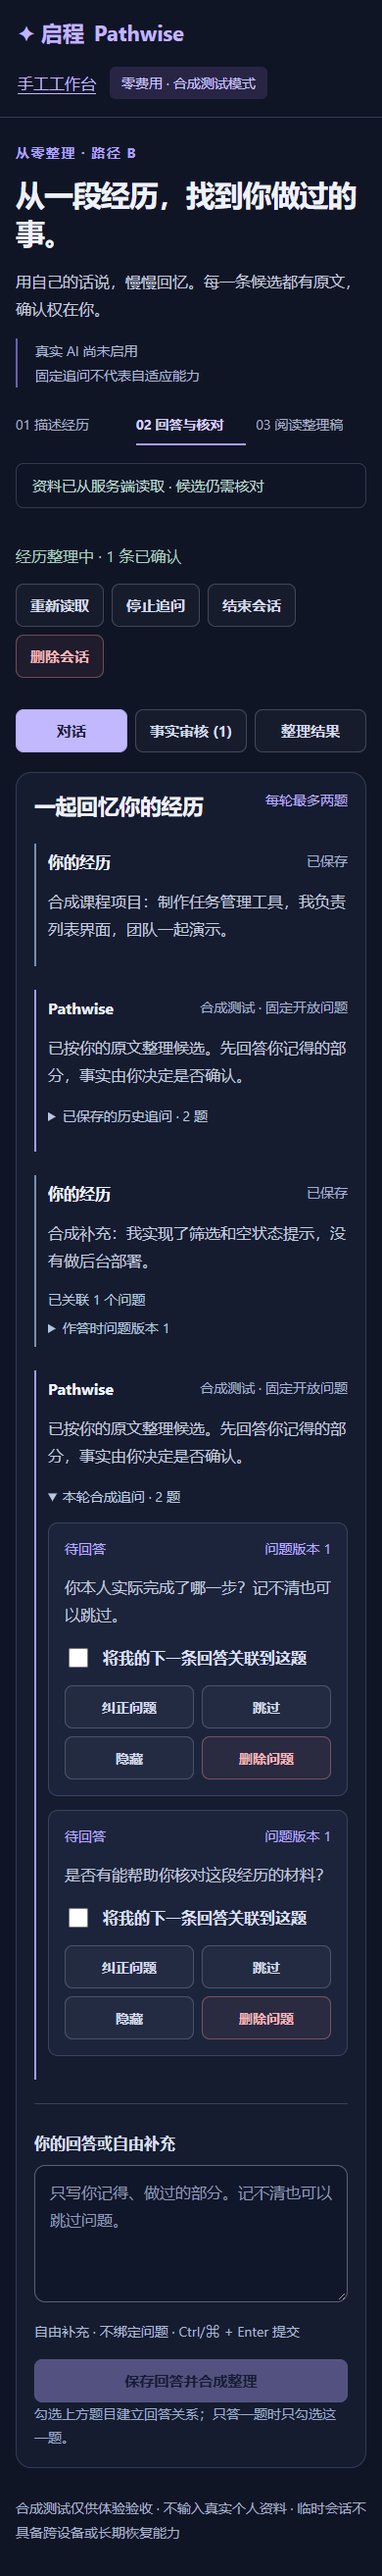
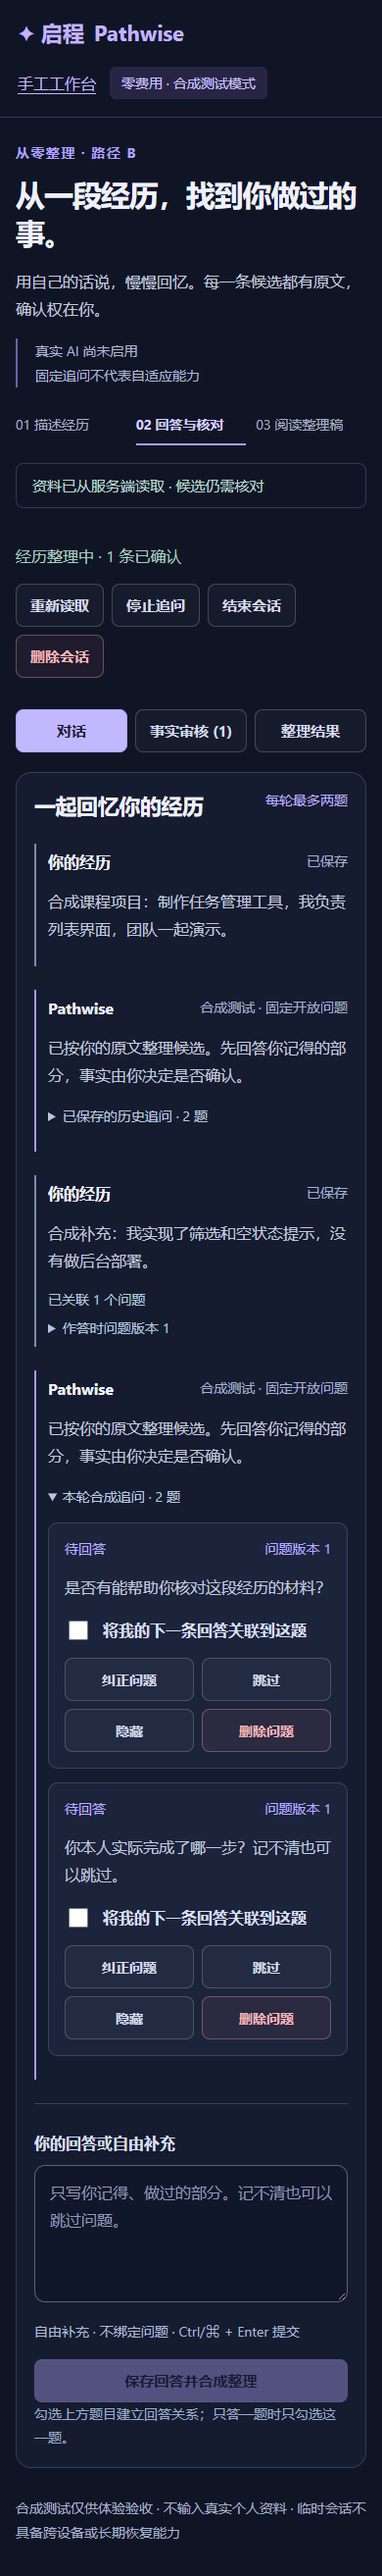
fix(web): recover absent creations and separate landing page

Changed region(s): [[0.1538, 0.5933, 0.8615, 0.7494], [0.5846, 0.687, 0.6154, 0.7494]]

diff --git a/apps/web/e2e/discovery.spec.ts b/apps/web/e2e/discovery.spec.ts
@@ -26,6 +26,9 @@ test('discovery full real UI / HTTP / PostgreSQL flow and desktop evidence', asy
   await page.setViewportSize({ width: 1440, height: 1000 })
   await page.goto('/')
   await expect(page.getByRole('region', { name: '三个首页入口' })).toBeVisible()
+  await expect(page.getByLabel('原始经历', { exact: true })).toHaveCount(0)
+  await expect(page.getByLabel('描述一段经历')).toHaveCount(0)
+  await page.screenshot({ path: info.outputPath('home.png'), fullPage: true })
   await page.getByRole('link', { name: /我还没有一份像样的简历/ }).click()
   await page.getByLabel('描述一段经历').fill('合成课程项目：任务列表，我负责页面交互，团队负责整体演示。')
   await page.getByRole('button', { name: '开始合成整理', exact: true }).click()
@@ -197,4 +200,84 @@ test('discovery lost creation and recovery response refresh never auto-creates o
   await page.getByRole('button', { name: '根据已保存经历开始合成整理' }).click()
   await expect(page.getByRole('article', { name: '合成追问' })).toHaveCount(2)
   expect(mines).toBe(1)
+})
+
+
+test('creation never received: refresh reads real 404, identical same-key retry creates once', async ({ page }) => {
+  await page.goto('/discovery')
+  const original = '合成：从未发送到服务端的课程经历。', keys: string[] = []
+  page.on('request', request => { if (request.method() === 'POST' && request.url().endsWith('/sessions')) keys.push(request.headers()['idempotency-key']) })
+  await page.route('**/api/v1/experience/sessions', route => route.abort('internetdisconnected'), { times: 1 })
+  await page.getByLabel('描述一段经历').fill(original)
+  await page.getByRole('button', { name: '开始合成整理', exact: true }).click()
+  await expect(page.getByText(/明确未找到创建结果/)).toBeVisible()
+  expect(probe().sessions).toHaveLength(0)
+  const recovery = page.waitForResponse(r => r.url().endsWith('/session-creations/recovery'))
+  await page.reload()
+  expect((await recovery).status()).toBe(404)
+  await expect(page.getByText(/明确未找到创建结果/)).toBeVisible()
+  expect(keys).toHaveLength(1);expect(probe().sessions).toHaveLength(0)
+  await page.getByLabel('描述一段经历').fill('合成：与原文不同。')
+  await page.getByRole('button', { name: '用原描述同键重试' }).click()
+  await expect(page.getByText(/这次输入与先前提交不同/)).toBeVisible()
+  expect(keys).toHaveLength(1);expect(probe().sessions).toHaveLength(0)
+  await page.getByLabel('描述一段经历').fill(original)
+  await page.getByRole('button', { name: '用原描述同键重试' }).click()
+  await expect(page.getByRole('article', { name: '合成追问' })).toHaveCount(2)
+  expect(keys).toHaveLength(2);expect(keys[0] === keys[1]).toBe(true)
+  expect(probe().sessions).toHaveLength(1);expect(audit().user_turns).toBe(1);expect(audit().runs).toHaveLength(1)
+  expect((await apiRead(page)).turns.find((t: { role: string }) => t.role === 'user').content).toBe(original)
+  await page.reload()
+  await expect(page.getByRole('article', { name: '合成追问' })).toHaveCount(2)
+  expect(keys).toHaveLength(2)
+})
+
+for (const boundary of ['expired', 'damaged'] as const) {
+  test(`creation ${boundary} storage blocks writes after refresh`, async ({ page }) => {
+    await page.goto('/discovery')
+    let creates = 0
+    page.on('request', request => { if (request.method() === 'POST' && request.url().endsWith('/sessions')) creates++ })
+    await page.route('**/api/v1/experience/sessions', route => route.abort('internetdisconnected'), { times: 1 })
+    await page.getByLabel('描述一段经历').fill('合成：恢复窗口边界。')
+    await page.getByRole('button', { name: '开始合成整理', exact: true }).click()
+    await expect(page.getByText(/明确未找到创建结果/)).toBeVisible()
+    await page.evaluate(async kind => {
+      const name = 'pathwise.development.pendingCreate'
+      const p = JSON.parse(sessionStorage.getItem(name)!)
+      if (kind === 'damaged') p.bodyTag = 'damaged'
+      else {
+        // Generate an actually valid expired proof, never expose secrets in output.
+        const issued = Math.floor(Date.now() / 1000) - 86401, nonce = p.key.split('.')[2]
+        const key = await crypto.subtle.importKey('raw', new TextEncoder().encode(p.token), { name: 'HMAC', hash: 'SHA-256' }, false, ['sign'])
+        const proof = new Uint8Array(await crypto.subtle.sign('HMAC', key, new TextEncoder().encode(`pathwise-idempotency-v1\ncreate_session\nglobal\n${issued}\n${nonce}`)))
+        const encoded = btoa(String.fromCharCode(...proof)).replaceAll('+', '-').replaceAll('/', '_').replaceAll('=', '')
+        p.key = `v1.${issued}.${nonce}.${encoded}`;p.expiresAt = (issued + 86400) * 1000
+      }
+      sessionStorage.setItem(name, JSON.stringify(p))
+    }, boundary)
+    await page.reload()
+    await expect(page.getByRole('alert')).toContainText(boundary === 'expired' ? '24 小时临时恢复窗口已结束' : '临时恢复记录异常')
+    await page.getByLabel('描述一段经历').fill('合成：恢复窗口边界。')
+    await expect(page.getByRole('button', { name: '开始合成整理', exact: true })).toBeDisabled()
+    expect(creates).toBe(1);expect(probe().sessions).toHaveLength(0);expect(audit().runs).toHaveLength(0)
+  })
+}
+
+test('uncertain creation recovery never authorizes retry, even after a previous definite 404', async ({ page }) => {
+  await page.goto('/discovery')
+  let creates = 0
+  page.on('request', request => { if (request.method() === 'POST' && request.url().endsWith('/sessions')) creates++ })
+  await page.route('**/api/v1/experience/sessions', route => route.abort('internetdisconnected'), { times: 1 })
+  await page.getByLabel('描述一段经历').fill('合成：结果不确定边界。')
+  await page.getByRole('button', { name: '开始合成整理', exact: true }).click()
+  await expect(page.getByText(/明确未找到创建结果/)).toBeVisible()
+  await page.route('**/session-creations/recovery', route => route.abort('connectionreset'))
+  await page.reload()
+  await expect(page.getByText(/创建结果仍不确定/)).toBeVisible()
+  await page.getByLabel('描述一段经历').fill('合成：结果不确定边界。')
+  await expect(page.getByRole('button', { name: '用原描述同键重试' })).toBeDisabled()
+  await page.unroute('**/session-creations/recovery')
+  await page.getByRole('button', { name: '只读恢复创建结果' }).click()
+  await expect(page.getByRole('button', { name: '用原描述同键重试' })).toBeEnabled()
+  expect(creates).toBe(1);expect(probe().sessions).toHaveLength(0)
 })

diff --git a/apps/web/src/features/discovery/Discovery.test.tsx b/apps/web/src/features/discovery/Discovery.test.tsx
@@ -3,12 +3,13 @@ import userEvent from '@testing-library/user-event'
 import { describe, expect, it, vi } from 'vitest'
 import fixtures from '../../test/mining-fixtures.json'
 import { createExperienceApi, SESSION_KEY } from '../../lib/experience'
+import { newPending, PENDING_KEY, storePending } from '../../lib/idempotency'
 import { MINING_KEY } from '../../lib/pending-mining'
 import DiscoveryWorkbench from './DiscoveryWorkbench'
 
 type Stage = 'empty' | 'initial' | 'answered' | 'confirmed'
 function setup(initial: Stage | null = 'initial') {
-  let stage: Stage = initial ?? 'empty', failReads = false, disabled = false, lost = false, missing = false, conflict = false
+  let stage: Stage = initial ?? 'empty', failReads = false, disabled = false, lost = false, missing = false, conflict = false, creationMissing = false, creationUnknown = false
   if (initial) sessionStorage.setItem(SESSION_KEY, JSON.stringify({ sessionId: fixtures.created.session_id, token: fixtures.created.access_token }))
   const fetcher = vi.fn(async (input: RequestInfo | URL, init?: RequestInit) => {
     const path = String(input), method = init?.method ?? 'GET'
@@ -16,7 +17,9 @@ function setup(initial: Stage | null = 'initial') {
     if (method === 'GET' && failReads) throw new Error('Synthetic offline')
     if (path.endsWith('/experience-summary')) return json(fixtures[`${stage}Summary`])
     if (path.endsWith('/mining-runs/recovery')) return missing ? json({ error: { code: 'mining_operation_not_found' } }, 404) : json(stage === 'initial' ? fixtures.initialRun : fixtures.answerRun)
+    if (path.endsWith('/session-creations/recovery')) return json({ error: { code: creationUnknown ? 'resource_unavailable' : 'idempotency_creation_not_found' } }, 404)
     if (method === 'GET') return json(fixtures[stage])
+    if (path.endsWith('/sessions') && creationMissing) throw new Error('Synthetic creation never received')
     if (path.endsWith('/sessions')) return json({ ...fixtures.created, access_token: (init?.headers as Record<string, string>).Authorization.slice(7) }, 201)
     if (path.endsWith('/mining-runs')) {
       if (disabled) return json({ error: { code: 'ai_disabled' } }, 503)
@@ -35,7 +38,7 @@ function setup(initial: Stage | null = 'initial') {
   })
   const api = createExperienceApi(fetcher as typeof fetch), copy = vi.fn(async () => {})
   const view = render(<DiscoveryWorkbench api={api} copy={copy} />)
-  return { fetcher, api, copy, view, loseResponse: () => { lost = true }, missing: () => { missing = true }, enable: () => { missing = false }, disable: () => { disabled = true }, offline: () => { failReads = true }, online: () => { failReads = false; conflict = false }, conflict: () => { conflict = true } }
+  return { fetcher, api, copy, view, creationMissing: () => { creationMissing = true }, creationUnknown: () => { creationUnknown = true }, creationOnline: () => { creationMissing = false; creationUnknown = false }, loseResponse: () => { lost = true }, missing: () => { missing = true }, enable: () => { missing = false }, disable: () => { disabled = true }, offline: () => { failReads = true }, online: () => { failReads = false; conflict = false }, conflict: () => { conflict = true } }
 }
 const posts = (fetcher: ReturnType<typeof setup>['fetcher']) => fetcher.mock.calls.filter(([, init]) => init?.method === 'POST')
 const waitReady = () => waitFor(() => expect(screen.getByRole('button', { name: '重新读取' })).not.toBeDisabled())
@@ -53,6 +56,44 @@ describe('scripted conversation with recorded FastAPI contracts', () => {
     expect(screen.getByText(/真实 AI 尚未启用/)).toBeInTheDocument()
     const stored = JSON.stringify(Object.keys(sessionStorage).map(key => sessionStorage.getItem(key)))
     expect(stored.includes('Synthetic project:')).toBe(false)
+  })
+  it('refresh creation 404 permits only explicit identical same-key retry', async () => {
+    const original = 'Synthetic unsubmitted creation.'
+    const x = setup(null);x.creationMissing()
+    fireEvent.change(screen.getByLabelText('描述一段经历'), { target: { value: original } })
+    await userEvent.click(screen.getByRole('button', { name: '开始合成整理' }))
+    await screen.findByText(/明确未找到创建结果/)
+    const key = JSON.parse(sessionStorage.getItem(PENDING_KEY)!).key
+    x.view.unmount();const restored = render(<DiscoveryWorkbench api={x.api} />)
+    await screen.findByText(/明确未找到创建结果/)
+    expect(posts(x.fetcher)).toHaveLength(1)
+    fireEvent.change(screen.getByLabelText('描述一段经历'), { target: { value: 'Different original' } })
+    await userEvent.click(screen.getByRole('button', { name: '用原描述同键重试' }))
+    await screen.findByText(/这次输入与先前提交不同/)
+    expect(posts(x.fetcher)).toHaveLength(1)
+    fireEvent.change(screen.getByLabelText('描述一段经历'), { target: { value: original } })
+    x.creationUnknown();await userEvent.click(screen.getByRole('button', { name: '只读恢复创建结果' }))
+    await waitFor(() => expect(screen.getByRole('button', { name: '用原描述同键重试' })).toBeDisabled())
+    expect(posts(x.fetcher)).toHaveLength(1)
+    x.creationOnline();await userEvent.click(screen.getByRole('button', { name: '只读恢复创建结果' }))
+    await waitFor(() => expect(screen.getByRole('button', { name: '用原描述同键重试' })).toBeEnabled())
+    await userEvent.click(screen.getByRole('button', { name: '用原描述同键重试' }))
+    await screen.findByRole('heading', { name: '一起回忆你的经历' })
+    expect(posts(x.fetcher)[1][1]?.headers).toMatchObject({ 'Idempotency-Key': key })
+    restored.unmount()
+  })
+  it.each(['expired', 'damaged'] as const)('blocks %s creation storage without any POST', async kind => {
+    const p = await newPending('Synthetic pending creation.')
+    if (kind === 'expired') {
+      const issued = Math.floor(Date.now() / 1000) - 86401
+      p.key = p.key.replace(p.key.split('.')[1], String(issued));p.expiresAt = (issued + 86400) * 1000
+      storePending(p)
+    } else sessionStorage.setItem(PENDING_KEY, JSON.stringify({ ...p, bodyTag: 'damaged' }))
+    const x = setup(null)
+    await screen.findByRole('alert')
+    fireEvent.change(screen.getByLabelText('描述一段经历'), { target: { value: 'Synthetic pending creation.' } })
+    expect(screen.getByRole('button', { name: '开始合成整理' })).toBeDisabled()
+    expect(posts(x.fetcher)).toHaveLength(0)
   })
   it('binds only the selected question, leaving unselected questions unbound', async () => {
     const { fetcher } = setup()

diff --git a/apps/web/src/features/discovery/useDiscovery.ts b/apps/web/src/features/discovery/useDiscovery.ts
@@ -1,6 +1,6 @@
 import { useEffect, useRef, useState } from 'react'
 import { ApiError, readCredentials, saveCredentials, SESSION_KEY, type Credentials, type ExperienceApi, type ExperienceSession, type Fact, type Mutation } from '../../lib/experience'
-import { checkBody, clearPending, newPending, readPending, storePending } from '../../lib/idempotency'
+import { checkBody, clearPending, newPending, readPending, storePending, type PendingCreate } from '../../lib/idempotency'
 import { createMiningApi, type Summary } from '../../lib/mining'
 import { clearMining, newMining, originalBody, readMining, storeMining, verifyMining, type PendingMining } from '../../lib/pending-mining'
 import type { MiningBody, MiningRun, Question, QuestionAction } from '../../lib/mining-contract'
@@ -37,6 +37,22 @@ export function useDiscovery(api: ExperienceApi) {
     saveCredentials(c); clearPending(); setCreation({ value: null, error: '' }); setCredentials(c); setRaw('')
     return c
   }
+  async function recoverCreation(p: PendingCreate, active = () => true) {
+    // Only the creation contract's explicit 404 establishes absence. A transport
+    // error, another 404, or an expired key must never authorize a write.
+    try {
+      const result = await apiRef.current.recover(p)
+      if (active()) setCreateNotFound(false)
+      return result
+    } catch (cause) {
+      if (active()) {
+        const absent = cause instanceof ApiError && cause.status === 404 && cause.code === 'idempotency_creation_not_found' && Date.now() < p.expiresAt
+        setCreateNotFound(absent); setNeedsReload(!absent)
+        setNotice(absent ? '明确未找到创建结果。请重新输入完全一致的原描述，再显式同键重试；不会自动新建。' : '创建结果仍不确定，写入已暂停。请先只读恢复，不会换键或自动重发。')
+      }
+      throw cause
+    }
+  }
   async function acceptRun(c: Credentials, p: PendingMining, result: MiningRun) {
     if (result.session_id !== c.sessionId || result.project_id !== p.project_id) throw new Error('恢复资料归属不一致。')
     await load(c)
@@ -61,7 +77,7 @@ export function useDiscovery(api: ExperienceApi) {
       let loaded = false
       try {
         let c = credentials
-        if (!c && creation.value && !creation.error) c = adopt(await apiRef.current.recover(creation.value), creation.value)
+        if (!c && creation.value && !creation.error) c = adopt(await recoverCreation(creation.value, () => active), creation.value)
         if (c) {
           await load(c, () => active)
           loaded = true
@@ -69,8 +85,9 @@ export function useDiscovery(api: ExperienceApi) {
         }
       } catch (cause) {
         if (!active) return
-        if (cause instanceof ApiError && cause.code === 'idempotency_creation_not_found') setCreateNotFound(true)
-        setNeedsReload(!(loaded && cause instanceof ApiError && cause.code === 'mining_operation_not_found')); setError(cause instanceof Error ? cause.message : '恢复失败，请只读查询。')
+        const absent = !credentials && creation.value && !creation.error && Date.now() < creation.value.expiresAt && cause instanceof ApiError && cause.status === 404 && cause.code === 'idempotency_creation_not_found'
+        setNeedsReload(!(absent || (loaded && cause instanceof ApiError && cause.code === 'mining_operation_not_found')))
+        setError(cause instanceof Error ? cause.message : '恢复失败，请只读查询。')
       } finally { if (active) { locked.current = false; setBusy(false) } }
     }
     void boot()
@@ -113,18 +130,16 @@ export function useDiscovery(api: ExperienceApi) {
     }
   }
   async function create() {
-    if (creation.error || mining.error) throw new Error('暂存异常，请先核对恢复记录。')
+    if (needsReload || creation.error || mining.error) throw new Error('暂存异常，请先核对恢复记录。')
     if (creation.value && !createNotFound) throw new Error('请先查询刚才的创建结果，不会新建第二份。')
     const p = creation.value ?? await newPending(raw)
     await checkBody(p, raw); storePending(p); setCreation({ value: p, error: '' })
+    setCreateNotFound(false)
     let c: Credentials
     try { c = adopt(await apiRef.current.create(raw, p), p) }
     catch (cause) {
-      try { c = adopt(await apiRef.current.recover(p), p) }
-      catch (recovery) {
-        if (recovery instanceof ApiError && recovery.code === 'idempotency_creation_not_found') setCreateNotFound(true)
-        throw cause
-      }
+      try { c = adopt(await recoverCreation(p), p) }
+      catch { throw cause }
     }
     const data = await load(c)
     if (data) await send(c, body(data, { input_turn_id: data.turns.find(t => t.role === 'user')!.id }))
@@ -149,7 +164,7 @@ export function useDiscovery(api: ExperienceApi) {
   }
   async function refresh() {
     if (!credentials) {
-      if (creation.value) { const c = adopt(await apiRef.current.recover(creation.value), creation.value); await load(c) }
+      if (creation.value) { const c = adopt(await recoverCreation(creation.value), creation.value); await load(c) }
     } else { await load(); if (mining.value) await recoverMine() }
   }
   async function mutate(fact: Fact, mutation: Mutation) {

diff --git a/apps/web/src/App.tsx b/apps/web/src/App.tsx
@@ -4,9 +4,8 @@ import type { CreatedSession, Credentials, ExperienceApi, ExperienceSession, Fac
 import { checkBody, clearPending, newPending, operation, readPending, storePending } from './lib/idempotency'
 import type { PendingCreate } from './lib/idempotency'
 import { FactCard } from './features/FactCard'
-import type { ReactNode } from 'react'
 
-export default function App({ api = createExperienceApi(), download = downloadJson, intro }: { api?: ExperienceApi; download?: typeof downloadJson; intro?: ReactNode }) {
+export default function App({ api = createExperienceApi(), download = downloadJson }: { api?: ExperienceApi; download?: typeof downloadJson }) {
   const apiRef = useRef(api)
   const [credentials, setCredentials] = useState<Credentials | null>(readCredentials)
   const [initialPending] = useState(readPending)
@@ -171,7 +170,6 @@ export default function App({ api = createExperienceApi(), download = downloadJs
   const unusedTurns = session?.turns.filter((turn, i) => i > 0 && turn.role === 'user' && !session.facts.some(f => f.original_source_turn_ids.includes(turn.id))) ?? []
   return <div className="page">
     <header className="header"><a className="brand" href="#"><span className="brand-symbol">✦</span>启程 <span className="brand-en">Pathwise</span></a><span className="stage">真实经历库 · 开发版</span></header>
-    {intro}
     <main className="workspace"><div className="page-heading"><p className="eyebrow">YOUR EXPERIENCE, YOUR WORDS</p><h1>让真实经历，成为你的底气。</h1><p className="intro">从一句自述开始，逐条整理、核对与确认。每一条事实，都能回到它的来源。</p></div>
       <div className="principles"><span>01 记录经历</span><span>02 核对事实</span><span>03 保存与复用</span></div>
       {error && <div className="alert" role="alert">{error}</div>}{notice && <p className="notice" role="status">{notice}</p>}{busy && <p role="status" className="loading">正在与经历库同步…</p>}

diff --git a/apps/web/src/features/Home.css b/apps/web/src/features/Home.css
@@ -1,0 +1,22 @@
+.home { min-height:100vh; color:#edf0fc; background:#101526; font-size:16px; }
+.home-header { max-width:1320px; margin:auto; padding:26px 36px; display:flex; align-items:center; justify-content:space-between; gap:24px; border-bottom:1px solid #323a55; }
+.home-header a { color:#bfb4ed; text-underline-offset:4px; }
+.home-header .brand { font-size:22px; }
+.home-main { max-width:1320px; margin:auto; padding:70px 36px 48px; }
+.home-kicker { color:#b4a5f6; font-size:15px; letter-spacing:.12em; }
+.home h1 { font-size:clamp(36px,5vw,64px); font-weight:750; line-height:1.25; letter-spacing:-.03em; margin:20px 0; }
+.home-lead { color:#c1cae1; font-size:18px; line-height:1.8; max-width:650px; }
+.home-entries { margin-top:48px; }
+.home h2 { font-size:22px; margin-bottom:24px; }
+.home-grid { display:grid; grid-template-columns:repeat(3,minmax(0,1fr)); gap:22px; }
+.home-entry { display:flex; flex-direction:column; align-items:flex-start; min-width:0; padding:28px; border:1px solid #3e465f; background:#192035; border-radius:16px; text-decoration:none; color:inherit; }
+.home-step { color:#b4b8d5; font-size:14px; }
+.home h3 { font-size:23px; line-height:1.5; margin:22px 0 12px; }
+.home-entry p { color:#c0c8dd; font-size:16px; line-height:1.8; margin:0 0 30px; }
+.home-primary { background:#272441; border-color:#a99be8; }
+.home-primary:hover { background:#302b50; }
+.home-action,.home-unavailable { margin-top:auto; font-size:16px; line-height:1.6; }
+.home-action { color:#ddd3ff; font-weight:650; }
+.home-unavailable { color:#a9b2cb; }
+.home-mode { color:#aebbd3; font-size:14px; line-height:1.9; margin-top:28px; max-width:880px; }
+@media(max-width:800px) { .home-grid { grid-template-columns:1fr; } .home-main { padding:36px 20px; } .home-header { padding:20px; flex-wrap:wrap; } .home-entries { margin-top:30px; } .home-entry { padding:24px; } .home h3 { margin-top:16px; } }

diff --git a/apps/web/src/features/Home.tsx b/apps/web/src/features/Home.tsx
@@ -1,0 +1,21 @@
+import './Home.css'
+
+export default function Home() {
+  return <div className="home">
+    <header className="home-header"><a className="brand" href="/">✦ 启程 <span>Pathwise</span></a><a href="/manual">手工工作台 · 兼容入口</a></header>
+    <main className="home-main">
+      <p className="home-kicker">PATHWISE · 从真实经历开始</p>
+      <h1>你的下一步，<br />从这里启程。</h1>
+      <p className="home-lead">无论你从哪里开始，都让做过的事成为求职的底气。</p>
+      <section aria-label="三个首页入口" className="home-entries">
+        <h2>你想从哪里开始？</h2>
+        <div className="home-grid">
+          <article className="home-entry"><span className="home-step">01 · 路径 A</span><h3>我已经有简历</h3><p>从已有简历开始整理。</p><span className="home-unavailable">简历导入 · 开发中</span></article>
+          <a className="home-entry home-primary" href="/discovery"><span className="home-step">02 · 路径 B</span><h3>我还没有一份像样的简历</h3><p>先说一段经历，再逐条核对事实。</p><span className="home-action">开始整理经历 →</span></a>
+          <article className="home-entry"><span className="home-step">03 · 路径 C</span><h3>我找到了一份目标岗位</h3><p>从目标岗位开始准备。</p><span className="home-unavailable">岗位分析 · 开发中</span></article>
+        </div>
+      </section>
+      <p className="home-mode">当前路径 B 使用零费用合成测试模式，固定追问不代表真实 AI 自适应能力。请仅使用合成资料体验。</p>
+    </main>
+  </div>
+}

diff --git a/apps/web/src/Root.test.tsx b/apps/web/src/Root.test.tsx
@@ -1,0 +1,22 @@
+import { render, screen } from '@testing-library/react'
+import { afterEach, expect, it } from 'vitest'
+import Root from './Root'
+
+afterEach(() => window.history.replaceState(null, '', '/'))
+it('root focuses on three established entries without mounting a workbench', () => {
+  window.history.replaceState(null, '', '/')
+  render(<Root />)
+  expect(screen.getByRole('region', { name: '三个首页入口' })).toBeInTheDocument()
+  expect(screen.getByRole('link', { name: /我还没有一份像样的简历/ })).toHaveAttribute('href', '/discovery')
+  expect(screen.getByText('简历导入 · 开发中')).toBeInTheDocument()
+  expect(screen.getByText('岗位分析 · 开发中')).toBeInTheDocument()
+  expect(screen.getByRole('link', { name: '手工工作台 · 兼容入口' })).toHaveAttribute('href', '/manual')
+  expect(screen.queryByLabelText('原始经历')).not.toBeInTheDocument()
+  expect(screen.queryByLabelText('描述一段经历')).not.toBeInTheDocument()
+})
+it('manual retains the original business workbench on its compatibility route', () => {
+  window.history.replaceState(null, '', '/manual')
+  render(<Root />)
+  expect(screen.getByLabelText('原始经历')).toBeInTheDocument()
+  expect(screen.queryByRole('region', { name: '三个首页入口' })).not.toBeInTheDocument()
+})

diff --git a/apps/web/e2e/workspace.spec.ts b/apps/web/e2e/workspace.spec.ts
@@ -165,7 +165,7 @@ test('acknowledged source turn is reused after interrupted fact insertion', asyn
 })
 
 test('rapid repeated clicks produce a single session and fact', async ({ page }) => {
-  await page.goto('/')
+  await page.goto('/manual')
   await page.getByLabel('原始经历').fill('Synthetic repeated click session')
   await page.getByRole('button', { name: '创建经历会话 →', exact: true }).evaluate(button => { (button as HTMLButtonElement).click(); (button as HTMLButtonElement).click() })
   await expect(page.getByRole('heading', { name: '你的事实清单', exact: true })).toBeVisible()
@@ -196,7 +196,7 @@ test('committed edit whose response is lost is reconciled by a fresh read', asyn
 
 // These are release gates, NOT test.fail/test.skip or expected-success simulations.
 test('acceptance blocker: lost create response must not leave an unrecoverable session', async ({ page }) => {
-  await page.goto('/')
+  await page.goto('/manual')
   await page.route('**/api/v1/experience/sessions', async route => {
     const response = await forward(route)
     expect(response.status()).toBe(201)

diff --git a/apps/web/src/Root.tsx b/apps/web/src/Root.tsx
@@ -1,9 +1,9 @@
 import App from './App'
 import DiscoveryWorkbench from './features/discovery/DiscoveryWorkbench'
-function Entries() {
-  return <section className="entry-chooser" aria-label="三个首页入口"><h2>你想从哪里开始？</h2><div className="entry-grid"><div>我已经有简历<small>简历导入尚未实现 · 开发中</small></div><a href="/discovery">我还没有一份像样的简历<small>进入真实事实库的合成对话工作台 →</small></a><div>我找到了一份目标岗位<small>岗位分析尚未实现 · 开发中</small></div></div><p>下方是兼容的手工事实工作台，也可直接从一句描述开始。真实 AI 未启用。</p></section>
-}
+import Home from './features/Home'
 export default function Root() {
   const path = window.location.pathname.replace(/\/+$/, '') || '/'
-  return path === '/discovery' ? <DiscoveryWorkbench /> : <App intro={path === '/manual' ? undefined : <Entries />} />
+  if (path === '/discovery') return <DiscoveryWorkbench />
+  if (path === '/manual') return <App />
+  return <Home />
 }

diff --git a/apps/web/e2e/helpers.ts b/apps/web/e2e/helpers.ts
@@ -28,7 +28,7 @@ export function probe(action = 'audit'): Audit {
   return action === 'reset' ? {} as Audit : JSON.parse(result)
 }
 export async function create(page: Page) {
-  await page.goto('/')
+  await page.goto('/manual')
   await page.getByLabel('原始经历', { exact: true }).fill('Synthetic course project: built a task tracker.')
   await page.getByRole('button', { name: '创建经历会话 →', exact: true }).click()
   await expect(page.getByRole('heading', { name: '你的事实清单', exact: true })).toBeVisible()

diff --git a/apps/web/e2e/idempotency.spec.ts b/apps/web/e2e/idempotency.spec.ts
@@ -17,7 +17,7 @@ async function forward(route: Route) {
   catch { throw new Error('Isolated upstream failed; private headers suppressed') }
 }
 async function create(page: Page) {
-  await page.goto('/')
+  await page.goto('/manual')
   await page.getByLabel('原始经历', { exact: true }).fill('Synthetic refresh recovery project')
   await page.getByRole('button', { name: '创建经历会话 →', exact: true }).click()
 }
